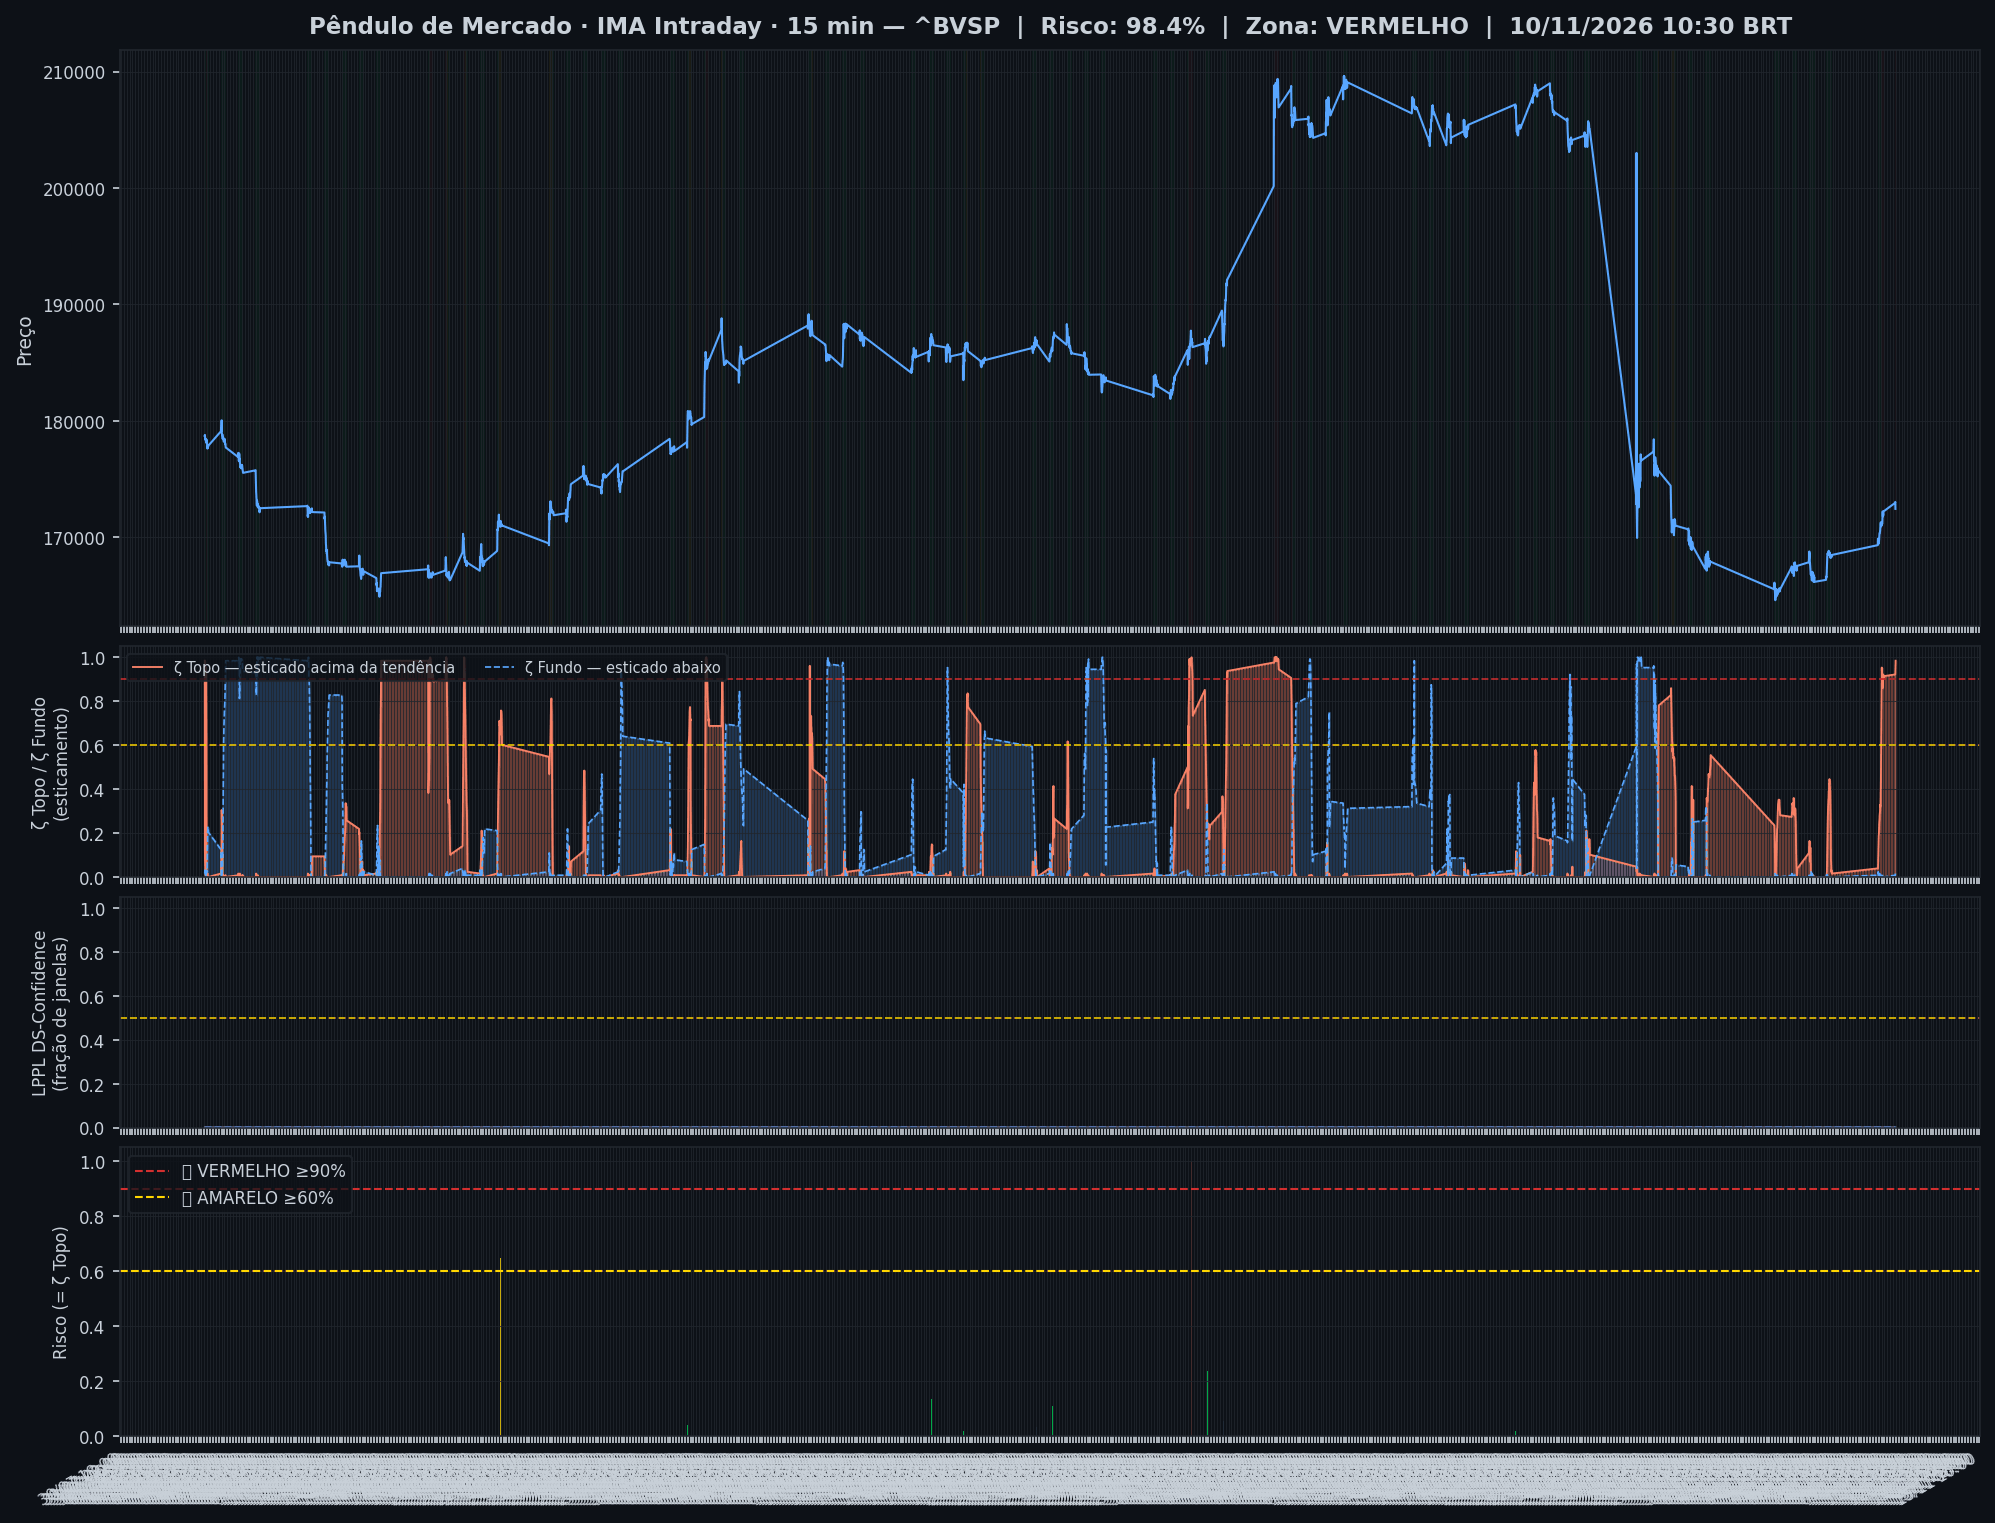
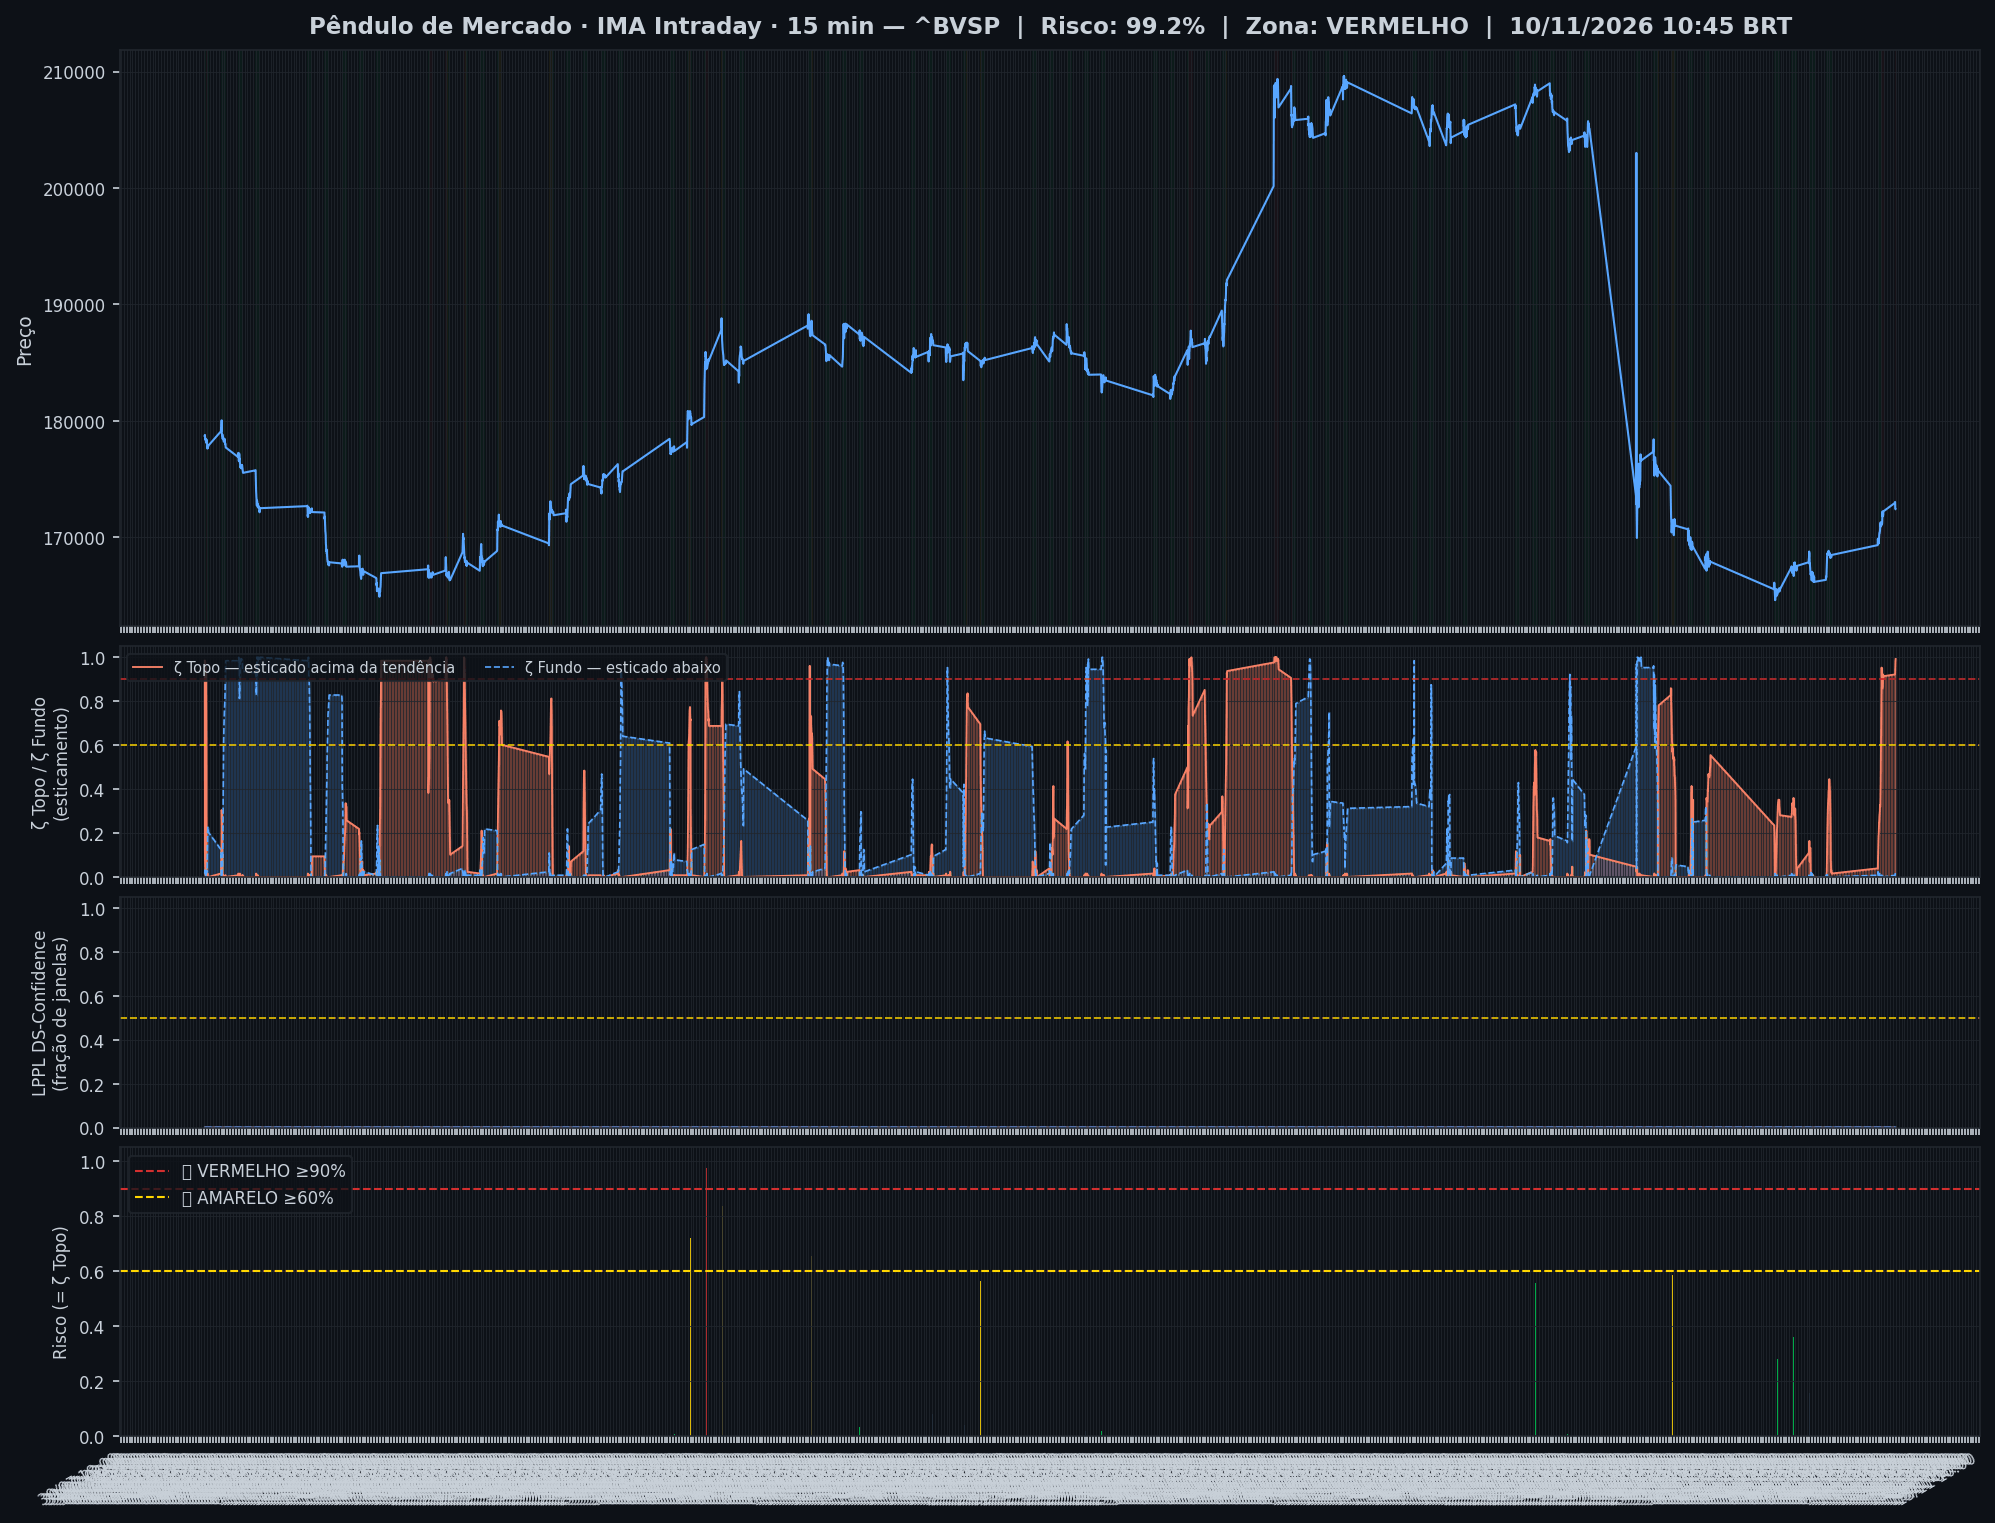
🤖 Auto: Sinal 10/11/2026 11:01

Changed region(s): [[0.7769, 0.4938, 0.9013, 0.5863], [0.6216, 0.4629, 0.6526, 0.5555], [0.9013, 0.9567, 0.9634, 0.9875]]

diff --git a/content/intraday/2026-11-10.md b/content/intraday/2026-11-10.md
@@ -1,10 +1,10 @@
 ---
-title: "🔴 Intraday 10/11/2026 10:30 BRT — VERMELHO"
+title: "🔴 Intraday 10/11/2026 10:45 BRT — VERMELHO"
 date: 2026-11-10
 tags: [intraday]
 ---
 
-> [!danger] Onde o mercado está agora (10/11 10:30, candles de 15 min): **🔴 Euforia extrema**
+> [!danger] Onde o mercado está agora (10/11 10:45, candles de 15 min): **🔴 Euforia extrema**
 > `Pânico ◀────────────────────●▶ Euforia`
 >
 > O Ibovespa subiu muito acima da sua tendência. Historicamente, foi a fase com maior risco de correção.
@@ -20,26 +20,26 @@ tags: [intraday]
 > | 📍 **Sinais** | hoje: nenhum sinal | [abrir](sinais-topo-fundo/) |
 > | 🧪 **Placar ao vivo** | 1 operação(ões), 0 com lucro, soma -0,8% | [abrir](operacoes/) |
 
-> [!danger] IMA Intraday · 15 min (10/11 10:30): 🔴 **VERMELHO** — Risco 98% · ▲ +2 p.p. vs leitura anterior
+> [!danger] IMA Intraday · 15 min (10/11 10:45): 🔴 **VERMELHO** — Risco 99% · ▲ +1 p.p. vs leitura anterior
 > `████████████████████`
 > ALERTA — esticamento extremo (ζ ≥ 0,90): risco de reversão.
 
 
-> [!danger] 🚨 Nível EXTREMO agora — IMA Intraday · 15 min (10/11 10:30)
-> - 🔴 **ζ Topo 98%** — preço esticado acima da tendência (risco de reversão)
+> [!danger] 🚨 Nível EXTREMO agora — IMA Intraday · 15 min (10/11 10:45)
+> - 🔴 **ζ Topo 99%** — preço esticado acima da tendência (risco de reversão)
 
 > [!note] 🧭 IMA Diário · viés (09/11): 🔪 **Queda forte em curso**
 > 📚 historicamente, quedas assim costumaram continuar um pouco antes de virar
 >
 > *Leitura educacional baseada em 26 anos de dados, não recomendação. [Como usar](../metodologia/crise#3-como-usar-na-prática).*
 
-| Indicador — IMA Intraday · 15 min (10/11 10:30) | Valor |
+| Indicador — IMA Intraday · 15 min (10/11 10:45) | Valor |
 |---|---|
-| 🔴 ζ Topo — preço esticado acima da tendência | 🔴 **98%** |
-| 🔵 ζ Fundo — preço esticado abaixo da tendência | 1% |
+| 🔴 ζ Topo — preço esticado acima da tendência | 🔴 **99%** |
+| 🔵 ζ Fundo — preço esticado abaixo da tendência | 0% |
 | 🫧 LPPL bolha — alta super-exponencial (risco de crash) | 0% |
 | 🫧 LPPL antibolha — queda super-exponencial (risco de repique) | 0% |
-| 📊 Ibovespa | 172.453 pts |
+| 📊 Ibovespa | 172.442 pts |
 
 ![Gráfico do sinal](../graficos/sinal_intraday.png)
 
@@ -47,6 +47,7 @@ tags: [intraday]
 
 | Data | Zona | Evento | Risco | ζ Topo | ζ Fundo | LPPL |
 |---|---|---|---|---|---|---|
+| 2026-11-10 10:45 | 🔴 VERMELHO |  | 🔴 **99%** | 🔴 **99%** | 0% | 0% |
 | 2026-11-10 10:30 | 🔴 VERMELHO |  | 🔴 **98%** | 🔴 **98%** | 1% | 0% |
 | 2026-11-10 10:15 | 🔴 VERMELHO |  | 🔴 **96%** | 🔴 **96%** | 2% | 0% |
 | 2026-11-10 10:00 | 🔴 VERMELHO |  | 🔴 **92%** | 🔴 **92%** | 1% | 0% |
@@ -76,7 +77,6 @@ tags: [intraday]
 | 2026-11-09 12:15 | 🟢 VERDE |  | **28%** | 28% | 2% | 0% |
 | 2026-11-09 12:00 | 🟢 VERDE |  | **26%** | 26% | 1% | 0% |
 | 2026-11-09 11:45 | 🟢 VERDE |  | **25%** | 25% | 0% | 0% |
-| 2026-11-09 11:30 | 🟢 VERDE |  | **23%** | 23% | 0% | 0% |
 
 <small>Destaques: 🟡 ≥ 60% · 🔴 ≥ 90% (Risco e ζ Topo) · 🔵 ≥ 60% · 🔪 ≥ 90% (ζ Fundo) · 🫧 ≥ 30% · 🫧🔴 ≥ 50% (LPPL)</small>
 
@@ -85,33 +85,33 @@ tags: [intraday]
 **12% dos ativos em tensão** (1🔴 2🟡) · **0 com ζ Fundo alto** — quanto mais ativos disparam juntos, mais confiável o sinal.
 
 > [!danger] Em destaque no multi-ativo
-> 🔴 **AMBEV S/A** ζ Topo 99% · 🟡 **WEG** ζ Topo 78% · 🟡 **REDE D OR** ζ Topo 63%
+> 🔴 **AMBEV S/A** ζ Topo 98% · 🟡 **WEG** ζ Topo 84% · 🟡 **REDE D OR** ζ Topo 66%
 
 | Zona | Ativo | Setor | ζ Topo | ζ Fundo |
 |---|---|---|---|---|
-| 🔴 | **AMBEV S/A** | Consumo | 🔴 **99.2%** | 0.0% |
-| 🟡 | **WEG** | Industrial | 🟡 **78.1%** | 0.8% |
-| 🟡 | **REDE D OR** | Saúde | 🟡 **63.3%** | 0.0% |
-| 🟢 | **ULTRAPAR** | Outros | 53.9% | 0.8% |
-| 🟢 | **B3** | Financeiro | 50.8% | 0.8% |
+| 🔴 | **AMBEV S/A** | Consumo | 🔴 **98.4%** | 0.0% |
+| 🟡 | **WEG** | Industrial | 🟡 **83.6%** | 0.8% |
+| 🟡 | **REDE D OR** | Saúde | 🟡 **66.4%** | 0.0% |
+| 🟢 | **ULTRAPAR** | Outros | 58.6% | 0.0% |
 | 🟢 | **ITAUUNIBANCO** | Financeiro | 49.2% | 0.8% |
-| 🟢 | **USD/BRL** | Câmbio | 11.7% | 45.3% |
-| 🟢 | **ITAUSA** | Financeiro | 42.2% | 0.8% |
-| 🟢 | **BRASIL** | Financeiro | 7.0% | 36.7% |
-| 🟢 | **EMBRAER** | Outros | 28.9% | 1.6% |
-| 🟢 | **COPEL** | Energia | 16.4% | 0.0% |
-| 🟢 | **GERDAU** | Siderurgia | 15.6% | 0.8% |
-| 🟢 | **SABESP** | Saneamento | 13.3% | 0.8% |
-| 🟢 | **BRADESCO** | Financeiro | 13.3% | 0.0% |
-| 🟢 | **VALE** | Mineração | 10.2% | 7.8% |
-| 🟢 | **VIBRA** | Energia | 10.2% | 0.8% |
-| 🟢 | **AXIA ENERGIA** | Energia | 9.4% | 0.8% |
-| 🟢 | **BTGP BANCO** | Financeiro | 9.4% | 0.0% |
-| 🟢 | **PRIO** | Petróleo | 1.6% | 3.9% |
-| 🟢 | **PETROBRAS** | Petróleo | 1.6% | 3.1% |
-| 🟢 | **PETROBRAS** | Petróleo | 1.6% | 3.1% |
-| 🟢 | **LOCALIZA** | Aluguel | 2.3% | 1.6% |
-| 🟢 | **SUZANO S.A.** | Papel/Celulose | 1.6% | 0.8% |
+| 🟢 | **B3** | Financeiro | 49.2% | 0.8% |
+| 🟢 | **ITAUSA** | Financeiro | 43.0% | 0.0% |
+| 🟢 | **EMBRAER** | Outros | 41.4% | 0.0% |
+| 🟢 | **USD/BRL** | Câmbio | 18.8% | 35.9% |
+| 🟢 | **BRASIL** | Financeiro | 7.8% | 35.2% |
+| 🟢 | **COPEL** | Energia | 18.0% | 0.0% |
+| 🟢 | **GERDAU** | Siderurgia | 17.2% | 0.0% |
+| 🟢 | **VIBRA** | Energia | 14.1% | 0.0% |
+| 🟢 | **VALE** | Mineração | 6.2% | 13.3% |
+| 🟢 | **AXIA ENERGIA** | Energia | 12.5% | 0.8% |
+| 🟢 | **BRADESCO** | Financeiro | 10.2% | 0.0% |
+| 🟢 | **SABESP** | Saneamento | 8.6% | 0.0% |
+| 🟢 | **BTGP BANCO** | Financeiro | 8.6% | 0.8% |
+| 🟢 | **PETROBRAS** | Petróleo | 0.0% | 4.7% |
+| 🟢 | **PETROBRAS** | Petróleo | 0.0% | 4.7% |
+| 🟢 | **LOCALIZA** | Aluguel | 2.3% | 4.7% |
+| 🟢 | **SUZANO S.A.** | Papel/Celulose | 3.1% | 1.6% |
+| 🟢 | **PRIO** | Petróleo | 0.0% | 1.6% |
 | 🟢 | **ENEVA** | Energia | 0.8% | 0.8% |
 | 🟢 | **EQUATORIAL** | Energia | 0.8% | 0.8% |
 
@@ -119,7 +119,7 @@ tags: [intraday]
 
 ![Monitor multi-ativo](../graficos/multi_intraday.png)
 
-*Página atualizada em 10/11/2026 10:46 BRT (leitura da barra de 2026-11-10 10:30 BRT).*
+*Página atualizada em 10/11/2026 11:01 BRT (leitura da barra de 2026-11-10 10:45 BRT).*
 
 > [!warning] O que este indicador não faz
 > Medido em 5 anos de Ibovespa, o ζ **não antecipa** topos nem fundos: a capacidade de separar o que sobe do que cai ficou em 0,49–0,52, e 0,50 é moeda jogada ao ar. Ele descreve o estado de agora; não é aviso do que vem. As zonas verde/amarelo/vermelho continuam na página como descrição desse estado — **não as use como sinal de entrada ou saída**.

diff --git a/content/index.md b/content/index.md
@@ -6,9 +6,9 @@ tags: [home]
 
 **As ondas do mercado, explicadas.** Leitura do Ibovespa com estatística de 26 anos, baseada no trabalho de pesquisadores e traders reconhecidos e adaptada por Jarbas Daniel da Costa.
 
-*Última atualização: 10/11/2026 10:46 BRT · Intraday 15min*
+*Última atualização: 10/11/2026 11:01 BRT · Intraday 15min*
 
-> [!danger] Onde o mercado está agora (10/11 10:30, candles de 15 min): **🔴 Euforia extrema**
+> [!danger] Onde o mercado está agora (10/11 10:45, candles de 15 min): **🔴 Euforia extrema**
 > `Pânico ◀────────────────────●▶ Euforia`
 >
 > O Ibovespa subiu muito acima da sua tendência. Historicamente, foi a fase com maior risco de correção.
@@ -16,14 +16,14 @@ tags: [home]
 >
 > *Leitura educacional baseada em 26 anos de dados. Não é recomendação de investimento.*
 
-> [!danger] 🚨 Nível EXTREMO agora — IMA Intraday · 15 min (10/11 10:30)
-> - 🔴 **ζ Topo 98%** — preço esticado acima da tendência (risco de reversão)
+> [!danger] 🚨 Nível EXTREMO agora — IMA Intraday · 15 min (10/11 10:45)
+> - 🔴 **ζ Topo 99%** — preço esticado acima da tendência (risco de reversão)
 
 ## Agora
 
 | Módulo | Agora | |
 |---|---|---|
-| 🌊 **Sinal IMA** | 🔴 VERMELHO · 🔴 euforia extrema · ζ Topo 🔴 **98%** | [relatório](intraday/2026-11-10) |
+| 🌊 **Sinal IMA** | 🔴 VERMELHO · 🔴 euforia extrema · ζ Topo 🔴 **99%** | [relatório](intraday/2026-11-10) |
 | 📈 **Tendência MME9** | Diário — fora<br>Semanal — fora | [abrir](operacoes/tendencia) |
 | 🎯 **Entradas do método** | ⏳ aguardando: Diário · Nadaraya, Diário · Semáforo N3 após ζ Fundo | [abrir](operacoes/entradas) |
 | 📍 **Sinais** | hoje: nenhum sinal | [abrir](sinais-topo-fundo/) |
@@ -47,18 +47,18 @@ tags: [home]
 > *Leitura educacional baseada em 26 anos de dados, não recomendação. [Como usar](metodologia/crise#3-como-usar-na-prática).*
 
 > [!info]- 🌊 Detalhes do Sinal IMA (indicadores e últimos 7 pregões)
-> > [!danger] IMA Intraday · 15 min (10/11 10:30): 🔴 **VERMELHO** — Risco 98% · ▲ +2 p.p. vs leitura anterior
+> > [!danger] IMA Intraday · 15 min (10/11 10:45): 🔴 **VERMELHO** — Risco 99% · ▲ +1 p.p. vs leitura anterior
 > > `████████████████████`
 > > ALERTA — esticamento extremo (ζ ≥ 0,90): risco de reversão.
 >
 >
-> | Indicador — IMA Intraday · 15 min (10/11 10:30) | Valor |
+> | Indicador — IMA Intraday · 15 min (10/11 10:45) | Valor |
 > |---|---|
-> | 🔴 ζ Topo — preço esticado acima da tendência | 🔴 **98%** |
-> | 🔵 ζ Fundo — preço esticado abaixo da tendência | 1% |
+> | 🔴 ζ Topo — preço esticado acima da tendência | 🔴 **99%** |
+> | 🔵 ζ Fundo — preço esticado abaixo da tendência | 0% |
 > | 🫧 LPPL bolha — alta super-exponencial (risco de crash) | 0% |
 > | 🫧 LPPL antibolha — queda super-exponencial (risco de repique) | 0% |
-> | 📊 Ibovespa | 172.453 pts |
+> | 📊 Ibovespa | 172.442 pts |
 >
 > **Multi-ativo:** 12% em tensão (1🔴 2🟡 de 25 ativos)
 >
@@ -66,7 +66,7 @@ tags: [home]
 >
 > | Data | Zona | Risco | ζ Topo | ζ Fundo | LPPL |
 > |---|---|---|---|---|---|
-> | [10/11/2026](intraday/2026-11-10) | 🔴 VERMELHO | 🔴 **98%** | 🔴 **98%** | 1% | 0% |
+> | [10/11/2026](intraday/2026-11-10) | 🔴 VERMELHO | 🔴 **99%** | 🔴 **99%** | 0% | 0% |
 > | [09/11/2026](intraday/2026-11-09) | 🔴 VERMELHO | 🔴 **91%** | 🔴 **91%** | 0% | 0% |
 >
 > <small>Destaques: 🟡 ≥ 60% · 🔴 ≥ 90% (Risco e ζ Topo) · 🔵 ≥ 60% · 🔪 ≥ 90% (ζ Fundo) · 🫧 ≥ 30% · 🫧🔴 ≥ 50% (LPPL)</small>

diff --git a/content/historico.md b/content/historico.md
@@ -5,7 +5,7 @@ tags: [historico]
 
 # 📜 Histórico de leituras (v5)
 
-**2.247 leituras** desde 2026-07-03. Na página ficam os últimos 3 dias leitura por leitura e o resumo de cada dia anterior; o registro inteiro está no arquivo para baixar.
+**2.248 leituras** desde 2026-07-03. Na página ficam os últimos 3 dias leitura por leitura e o resumo de cada dia anterior; o registro inteiro está no arquivo para baixar.
 
 [**Baixar o histórico completo**](historico-completo.csv) (99 KB · abre no Excel e no LibreOffice)
 
@@ -16,6 +16,7 @@ tags: [historico]
 
 | Data | Modo | Zona | Risco | IMA | LPPL |
 |---|---|---|---|---|---|
+| 2026-11-10 10:45 | intraday | 🔴 VERMELHO | 🔴 **99%** | 🔴 **99%** | 0% |
 | 2026-11-10 10:30 | intraday | 🔴 VERMELHO | 🔴 **98%** | 🔴 **98%** | 0% |
 | 2026-11-10 10:15 | intraday | 🔴 VERMELHO | 🔴 **96%** | 🔴 **96%** | 0% |
 | 2026-11-10 10:00 | intraday | 🔴 VERMELHO | 🔴 **92%** | 🔴 **92%** | 0% |

diff --git a/content/operacoes/ranking.md b/content/operacoes/ranking.md
@@ -5,7 +5,7 @@ tags: [operacoes]
 description: "As regras de compra do site ordenadas pelo resultado, com treino, teste e placar ao vivo"
 ---
 
-*Atualizado 10/11/2026 10:46 · histórico simulado com as regras congeladas em 23/10/2026 + placar ao vivo.*
+*Atualizado 10/11/2026 11:01 · histórico simulado com as regras congeladas em 23/10/2026 + placar ao vivo.*
 
 As regras de compra do site, **da que mais rendeu para a que menos rendeu**. O resultado é por operação, no índice à vista, sem custos e sem juros compostos (a soma é só a soma das operações). **Treino** = entradas de 2001 a 2013 e **teste** = 2014 em diante: uma regra só é confiável se ganhou nos dois. O único resultado sem nenhum ajuste ao histórico é o **placar ao vivo**.
 

diff --git a/content/linha-do-tempo/index.md b/content/linha-do-tempo/index.md
@@ -5,7 +5,7 @@ description: "Todo sinal, ordem, stop e aviso do Pêndulo de Mercado, do mais re
 tags: [eventos]
 ---
 
-*Atualizada 10/11/2026 10:46 BRT · a cada 15 min no pregão e às 19h.*
+*Atualizada 10/11/2026 11:01 BRT · a cada 15 min no pregão e às 19h.*
 
 Tudo o que o sistema fez ou detectou, **do mais recente para o mais antigo**: sinais de topo e fundo, ordens de compra e de venda armadas, compras, vendas, stops, avisos de 🚨 preço perto do nível e mudanças do Sinal IMA. Os **últimos 7 dias** ficam abertos; o resto, por **ano → mês → dia**.
 
